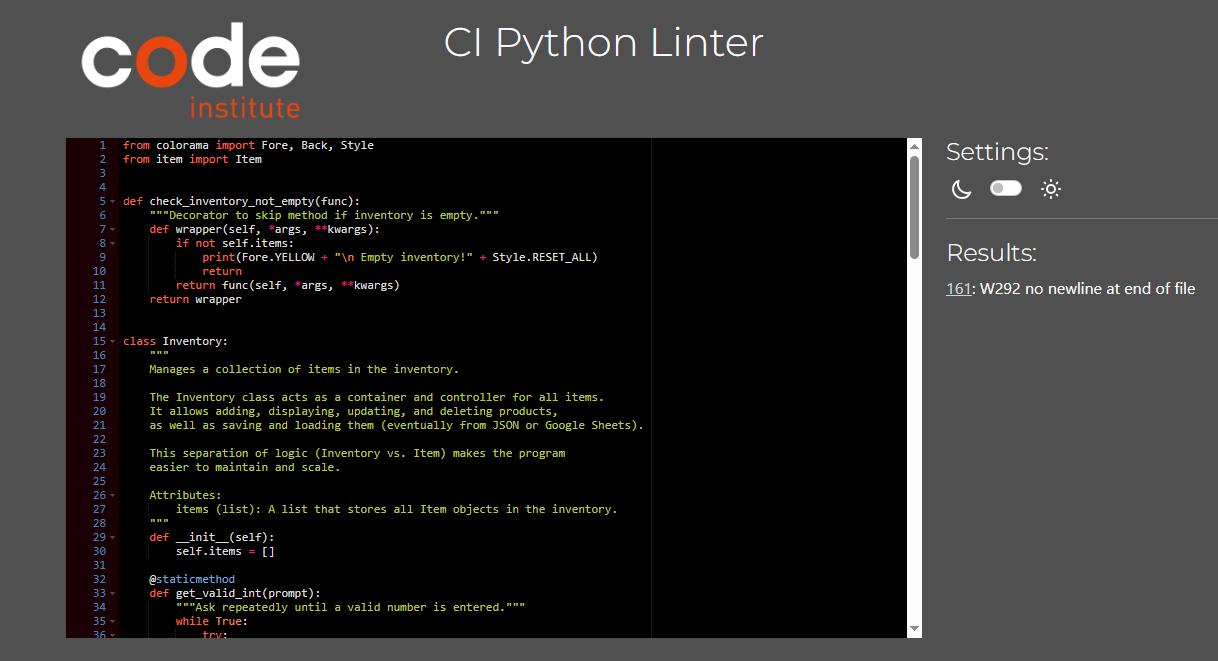
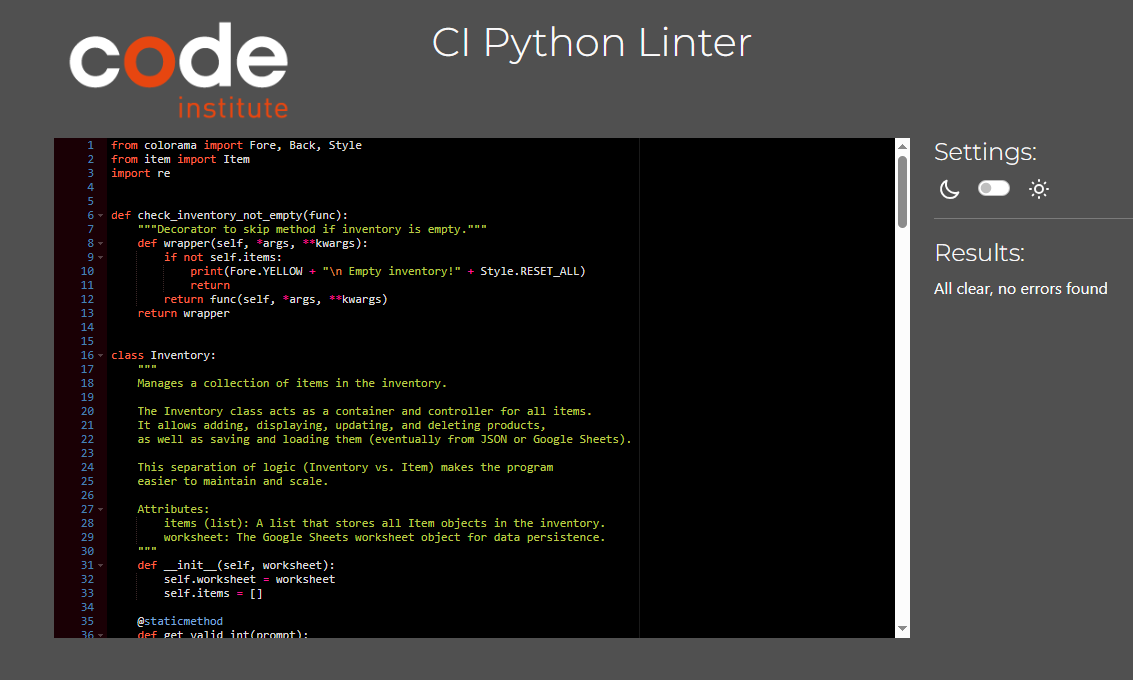
Update the readme file with screenshots

Changed region(s): [[0.0309, 0.0303, 0.9885, 0.9682], [0.3707, 0.0303, 0.6487, 0.0908]]

diff --git a/README.md b/README.md
@@ -19,12 +19,12 @@ The Inventory Management Tool is a simple, Python-based command-line application
 **Purpose**
 - Provide users with a simple and effective way to track inventory levels and manage products directly from the terminal.
 - Help small business owners maintain accurate records of their stock, reduce manual errors, and make informed decisions about restocking or pricing.
-- Offer a practical learning experience for understanding how programming concepts can be applied to real-world business problems.
+
 
 **Primary User Needs**
 - Easily add, update, delete, and view items in the inventory.
 - Keep track of product quantities and prices with minimal technical knowledge.
-- Store data safely for later use, with the option to extend the system to save data to a file or connect to Google Sheets.
+- Store data safely in Google Sheets for persistent storage and easy access across sessions.
 - Receive clear and user-friendly feedback through color-coded messages in the terminal.
 
 **Business Goals**
@@ -33,12 +33,6 @@ The Inventory Management Tool is a simple, Python-based command-line application
 - Support better organization and customer satisfaction by ensuring that stock information is always accurate and easy to access.
 
 
-## Wireframes
-
-To follow best practice, a flowchart was created to showcase the progression of the Python app.
-I've used [Lucidchart](https://www.lucidchart.com/pages/examples/flowchart-maker) to design my app flowchart.
-
-![screenshot](documentation/flowchart.png)
 
 ## User Stories
 
@@ -62,18 +56,18 @@ I've used [Lucidchart](https://www.lucidchart.com/pages/examples/flowchart-maker
 | Feature               | Notes                                                                                                                                                                     | Screenshot                                                 |
 | ----------------------- | --------------------------------------------------------------------------------------------------------------------------------------------------------------------------- | ------------------------------------------------------------ |
 | Add Item              | Users can add new items with unique ID and name validation. The system ensures no duplicate IDs or names exist and validates quantity (integer) and price (float) inputs. | ![screenshot](document/add-item.png)         |
-| Update Item           | Allows users to modify existing items by ID, updating the name, quantity, and price. Validates all inputs and confirms updates with success messages.                     | ![screenshot](documentation/features/update-item.png)      |
+| Update Item           | Allows users to modify existing items by ID, updating the name, quantity, and price. Validates all inputs and confirms updates with success messages.                     | ![screenshot](document/update_item.png)      |
 | Display Items         | Shows all inventory items in a formatted table sorted by ID, displaying ID, name, quantity, and price in a clear, color-coded layout.                                     | ![screenshot](document/inventory.png)    |
 | Delete Item           | Removes items from inventory by ID with a confirmation prompt (y/n) to prevent accidental deletion. Handles invalid responses gracefully.                                 | ![screenshot](document/delete-item.png)      |
 | Input Validation      | Validates integer inputs (ID, quantity) and float inputs (price) with retry prompts. Ensures data integrity by rejecting invalid entries with clear error messages.       | ![screenshot](document/input-validation.png) |
-| Color-coded Feedback  | Uses colorama to provide visual feedback: green for success, red for errors, yellow for warnings, blue for menu headers, and magenta for section headers.                 | ![screenshot](documentation/features/color-feedback.png)   |
-| Empty Inventory Check | Decorator pattern prevents update and delete operations on empty inventory, displaying a friendly warning message instead.                                                | ![screenshot](documentation/features/empty-check.png)      |
+| Color-coded Feedback  | Uses colorama to provide visual feedback: green for success, red for errors, yellow for warnings, blue for menu headers, and magenta for section headers.                 | ![screenshot](document/color-feedback.png)   |
+| Empty Inventory Check | Decorator pattern prevents update and delete operations on empty inventory, displaying a friendly warning message instead.                                                | ![screenshot](document/empty-check.png)      |
 | Menu System           | Interactive menu-driven interface with 5 options (Add, Update, Display, Delete, Exit) that loops until the user chooses to exit.                                          | ![screenshot](document/menu-system.png)      |
+| Google Sheets Integration | Automatically loads inventory data from Google Sheets on startup and syncs all add, update, and delete operations to maintain persistent storage across sessions.      | ![screenshot](document/google-sheets.png)    |
 
 ### Future Features
 
 - **User Authentication and Role Management**: Implement a login system with roles (e.g., admin, employee) to restrict data access based on user roles.
-- **Data Persistence**: Save inventory data to JSON files or connect to Google Sheets for persistent storage across sessions.
 - **Data Visualization**: Add charts and graphs to visually represent stock levels, value trends, and inventory metrics over time.
 - **Search and Filter**: Implement search functionality to find items by name, ID range, or price range, with filtering options.
 - **Low Stock Alerts**: Notify users when stock levels fall below a defined threshold, prompting restock orders.
@@ -96,16 +90,15 @@ I've used [Lucidchart](https://www.lucidchart.com/pages/examples/flowchart-maker
 | [![badge](https://img.shields.io/badge/VSCode-grey?logo=htmx&logoColor=007ACC)](https://code.visualstudio.com) | Local IDE for development. |
 | [![badge](https://img.shields.io/badge/Python-grey?logo=python&logoColor=3776AB)](https://www.python.org) | Back-end programming language. |
 | [![badge](https://img.shields.io/badge/Heroku-grey?logo=heroku&logoColor=430098)](https://www.heroku.com) | Hosting the deployed back-end site. |
+| [![badge](https://img.shields.io/badge/Google_Sheets-grey?logo=googlesheets&logoColor=34A853)](https://docs.google.com/spreadsheets) | Storing data from my Python app. |
 | [![badge](https://img.shields.io/badge/ChatGPT-grey?logo=openai&logoColor=75A99C)](https://chat.openai.com) | Help debug, troubleshoot, and explain things. |
 | [![badge](https://img.shields.io/badge/Lucidchart-grey?logo=lucid&logoColor=F97B2C)](https://www.lucidchart.com) | Flow diagrams for mapping the app's logic. |
 | [![badge](https://img.shields.io/badge/StackOverflow-grey?logo=stackoverflow&logoColor=F58025)](https://stackoverflow.com) | Troubleshooting and Debugging |
-
 
 ## Database Design
 
 ### Data Model
 
-#### Flowchart
 
 
 #### Classes & Functions
@@ -149,26 +142,28 @@ class Inventory:
 
     The Inventory class acts as a container and controller for all items.
     It allows adding, displaying, updating, and deleting products,
-    as well as saving and loading them (eventually from JSON or Google Sheets).
+    as well as saving and loading them from Google Sheets.
 
     This separation of logic (Inventory vs. Item) makes the program
     easier to maintain and scale.
 
     Attributes:
         items (list): A list that stores all Item objects in the inventory.
+        worksheet: The Google Sheets worksheet object for data persistence.
     """
-    def __init__(self):
+    def __init__(self, worksheet):
+        self.worksheet = worksheet
         self.items = []
 ```
 
 The primary functions used on this application are:
 
 - `add_item()`
-  - Prompts user for item details (ID, name, quantity, price) and adds a new Item object to the inventory list.
+  - Prompts user for item details (ID, name, quantity, price), adds a new Item object to the inventory list, and saves it to Google Sheets.
 - `update_item()`
-  - Allows user to modify an existing item's name, quantity, and price by searching for it by ID.
+  - Allows user to modify an existing item's name, quantity, and price by searching for it by ID, then syncs changes to Google Sheets.
 - `delete_item(id)`
-  - Removes an item from the inventory by ID after user confirmation (y/n prompt).
+  - Removes an item from the inventory by ID after user confirmation (y/n prompt) and deletes it from Google Sheets.
 - `display_item()`
   - Displays all items in a formatted table sorted by ID, showing ID, name, quantity, and price.
 - `get_valid_int(prompt)`
@@ -178,9 +173,17 @@ The primary functions used on this application are:
 - `get_id()`
   - Gets a unique item ID from the user, checking for duplicates in the existing inventory.
 - `get_name()`
-  - Gets a unique item name from the user, checking for duplicates (case-insensitive).
+  - Gets a unique item name from the user with comprehensive validation: checks for empty input, ensures 3-15 characters with at least 3 letters using regex, and prevents duplicates (case-insensitive).
 - `check_inventory_not_empty()`
   - Decorator function that prevents operations on empty inventory and displays a warning.
+- `get_items()`
+  - Loads existing inventory data from Google Sheets into the local inventory on program startup.
+- `save_to_sheet(item)`
+  - Saves a new item to the Google Sheets worksheet.
+- `update_item_in_sheet(item_id, item)`
+  - Updates an existing item in the Google Sheets worksheet by ID.
+- `main()`
+  - Displays the welcome message and program instructions when the application starts.
 - `tasks_list()`
   - Displays the main menu and handles user task selection in a loop until exit.
 - `my_task(selected_task)`
@@ -190,40 +193,13 @@ The primary functions used on this application are:
 
 I've used the following Python packages and external imports.
 
+- `gspread`: used for connecting to and interacting with Google Sheets API
+- `google.oauth2.service_account`: used for authenticating with Google Sheets using service account credentials
 - `colorama`: used for including color in the terminal (Fore, Back, Style)
+- `re`: used for regex pattern matching in name validation
 - `item`: local module containing the Item class definition
 - `inventory`: local module containing the Inventory class and inventory management logic
 
-## Agile Development Process
-
-### GitHub Projects
-
-
-[GitHub Projects](https://www.github.com/Scaphix/my_inventory_manager/projects) served as an Agile tool for this project. Through it, EPICs, User Stories, issues/bugs, and Milestone tasks were planned, then subsequently tracked on a regular basis using the Kanban project board.
-
-
-### Must Have (MVP)
-- [As a user, I want to search for a title so that I can find relevant information.](https://github.com/larevolucia/reeltracker_cli/issues/3)
-
-![screenshot](documentation/gh-projects.png)
-
-### GitHub Issues
-
-[GitHub Issues](https://www.github.com/Scaphix/my_inventory_manager/issues) served as an another Agile tool. There, I managed my User Stories and Milestone tasks, and tracked any issues/bugs.
-
-| Link | Screenshot |
-| --- | --- |
-| [![GitHub issues](https://img.shields.io/github/issues-search/Scaphix/my_inventory_manager?query=is%3Aissue%20is%3Aopen%20-label%3Abug&label=Open%20Issues&color=yellow)](https://www.github.com/Scaphix/my_inventory_manager/issues?q=is%3Aissue%20is%3Aopen%20-label%3Abug) | ![screenshot](documentation/gh-issues-open.png) |
-| [![GitHub closed issues](https://img.shields.io/github/issues-search/Scaphix/my_inventory_manager?query=is%3Aissue%20is%3Aclosed%20-label%3Abug&label=Closed%20Issues&color=green)](https://www.github.com/Scaphix/my_inventory_manager/issues?q=is%3Aissue%20is%3Aclosed%20-label%3Abug) | ![screenshot](documentation/gh-issues-closed.png) |
-
-### MoSCoW Prioritization
-
-I've decomposed my Epics into User Stories for prioritizing and implementing them. Using this approach, I was able to apply "MoSCoW" prioritization and labels to my User Stories within the Issues tab.
-
-- **Must Have**: guaranteed to be delivered - required to Pass the project (*max ~60% of stories*)
-- **Should Have**: adds significant value, but not vital (*~20% of stories*)
-- **Could Have**: has small impact if left out (*the rest ~20% of stories*)
-- **Won't Have**: not a priority for this iteration - future features
 
 ## Testing
 
@@ -335,7 +311,7 @@ Heroku needs some additional files in order to deploy properly.
 
 - [requirements.txt](requirements.txt)
 - [Procfile](Procfile)
-- [.python-version](.python-version)
+- [runtime.txt](runtime.txt)
 
 You can install this project's **[requirements.txt](requirements.txt)** (*where applicable*) using:
 
@@ -349,9 +325,9 @@ The **[Procfile](Procfile)** can be created with the following command:
 
 - `echo web: node index.js > Procfile`
 
-The **[.python-version](.python-version)** file tells Heroku the specific version of Python to use when running your application.
+The **[runtime.txt](runtime.txt)** file tells Heroku the specific version of Python to use when running your application.
 
-- `3.12` (or similar)
+- `python-3.12.2` (or similar)
 
 For Heroku deployment, follow these steps to connect your own GitHub repository to the newly created app:
 
@@ -368,7 +344,43 @@ Or:
 
 The Python terminal window should now be connected and deployed to Heroku!
 
+### Google Sheets API
 
+This application uses [Google Sheets](https://docs.google.com/spreadsheets) to handle a "makeshift" database on the live site.
+
+To run your own version of this application, you will need to create your own Google Sheet with one sheet named `stock` in the following format:
+
+| ID | Name | Quantity | Price | 
+| --- | --- | --- | --- | 
+| sample data | sample data | sample data | sample data |
+| sample data | sample data | sample data | sample data | 
+| sample data | sample data | sample data | sample data | 
+
+A credentials file in `.JSON` format from the Google Cloud Platform is also mandatory:
+
+[Google Cloud Platform](https://console.cloud.google.com)
+
+1. From the dashboard click on "Select a project", and then the **NEW PROJECT** button.
+2. Give the project a name, and then click **CREATE**.
+3. Click **SELECT PROJECT** to get to the project page.
+4. From the side-menu, select "APIs & Services", then select "Library".
+5. Search for the "Google Drive API", select it, and then click on **ENABLE**.
+6. Click on the **CREATE CREDENTIALS** button.
+7. From the "Which API are you using?" dropdown menu, choose **Google Drive API**.
+8. For the "What data will you be accessing?" question, select **Application Data**.
+9. Click **Next**.
+10. Enter a "Service Account" name, then click **Create**.
+11. In the "Role" dropdown box, choose "Basic" > "Editor", then press **Continue**.
+12. "Grant users access to this service account" can be left blank. Click **DONE**.
+13. On the next page, click on the "Service Account" that has been created.
+14. On the next page, click on the "Keys" tab.
+15. Click on the "Add Key" dropdown, and select "Create New Key".
+16. Select `JSON`, and then click **Create**. This will trigger the `.json` file with your API credentials in it to download to your machine locally.
+17. For local deployment, this needs to be renamed to `creds.json`.
+18. Repeat steps 4 & 5 above to add the "Google Sheets API".
+19. Copy the `client_email` that is in the `creds.json` file.
+20. Share your Google Sheet to the `client_email`, ensuring "Editing" is enabled.
+21. Add the `creds.json` file to your `.gitignore` file, so as not to push your credentials to GitHub publicly.
 
 ### Local Development
 
@@ -380,20 +392,24 @@ For either method, you will need to install any applicable packages found within
 
 If using any confidential credentials, such as `CREDS.json` or `env.py` data, these will need to be manually added to your own newly created project as well.
 
-#### Cloning
 
-You can clone the repository by following these steps:
+#### How to Clone a repository
 
-1. Go to the [GitHub repository](https://www.github.com/Scaphix/my_inventory_manager).
+1. On GitHub, go to the repository for this project, [GitHub repository](https://www.github.com/Scaphix/my_inventory_manager).
 2. Locate and click on the green "Code" button at the very top, above the commits and files.
-3. Select whether you prefer to clone using "HTTPS", "SSH", or "GitHub CLI", and click the "copy" button to copy the URL to your clipboard.
-4. Open "Git Bash" or "Terminal".
+3. Copy the URL for the repository.
+
+    - To clone the repository using HTTPS, under "HTTPS", click the copy button.
+    - To clone the repository using an SSH key, including a certificate issued by your organization's SSH certificate authority, click SSH, then click the copy button.
+    - To clone a repository using GitHub CLI, click GitHub CLI, then click the copy button.
+
+4. Open Terminal.
 5. Change the current working directory to the location where you want the cloned directory.
 6. In your IDE Terminal, type the following command to clone the repository:
 	- `git clone https://www.github.com/Scaphix/my_inventory_manager.git`
-7. Press "Enter" to create your local clone.
+7. Press Enter. Your local clone will be created.
 
-
+![](document/clone-repo.png)
 
 #### Forking
 
@@ -401,7 +417,11 @@ By forking the GitHub Repository, you make a copy of the original repository on 
 
 1. Log in to GitHub and locate the [GitHub Repository](https://www.github.com/Scaphix/my_inventory_manager).
 2. At the top of the Repository, just below the "Settings" button on the menu, locate and click the "Fork" Button.
-3. Once clicked, you should now have a copy of the original repository in your own GitHub account!
+
+![](document/fork-repo.png)
+
+3. Select the dropdown menu and click on owner for the forked repository.
+4. Click Create fork.
 
 
 ## Credits
@@ -413,29 +433,23 @@ By forking the GitHub Repository, you make a copy of the original repository on 
 | Source | Notes |
 | --- | --- |
 | [Markdown Builder](https://markdown.2bn.dev) | Help generating Markdown files |
-| [Chris Beams](https://chris.beams.io/posts/git-commit) | "How to Write a Git Commit Message" |
 | [Love Sandwiches](https://codeinstitute.net) | Code Institute walkthrough project inspiration |
-| [Real Python](https://realpython.com/python-quiz-application) | Inspiration for a quiz app |
-| [BroCode](https://www.youtube.com/watch?v=ag8NtD1e0Kc) | Inspiration for hangman game |
 | [Python Tutor](https://pythontutor.com) | Additional Python help |
 | [Colorama](https://www.youtube.com/watch?v=u51Zjlnui4Y) | Adding color in Python |
 | [StackOverflow](https://stackoverflow.com/a/50921841) | Clear screen in Python |
 | [ChatGPT](https://chatgpt.com) | Help with code logic and explanations |
 
-### Photo
+### Media
+
+I used the background image from the website below:
 
 [Layout image](https://www.veeqo.com/gb/blog/inventory-shrinkage)
 
-### Media
-
-| Source | Notes |
-| --- | --- |
-| [ASCII Art Archive](https://www.asciiart.eu) | Pre-defined ASCII art |
-| [TEXT-IMAGE](https://www.text-image.com) | Converting an image to ASCII art |
-| [Patorjk](https://patorjk.com/software/taag) | Converting text to ASCII art |
 
 ### Acknowledgements
 
-- I would like to thank my Code Institute mentor, [Tim Nelson](https://www.github.com/TravelTimN) for the support throughout the development of this project.
-- I would like to thank the [Code Institute](https://codeinstitute.net) Tutor Team for their assistance with troubleshooting and debugging some project issues.
-- I would like to thank my partner, for believing in me, and allowing me to make this transition into software development.
+- I would like to thank my Code Institute mentors, [Tim Nelson](https://www.github.com/TravelTimN) and [Iuliia Konovalova](https://github.com/IuliiaKonovalova) for their valuable guidance and constructive feedback for this project.
+
+- I would like to express my gratitude to the CI community, and especially to [Kathrinmzl](https://github.com/kathrinmzl), for taking the time to review my project and offer thoughtful, detailed feedback.
+
+- I would like to thank my husband for his kindness, help and unwavering support throughout the development of this project.
